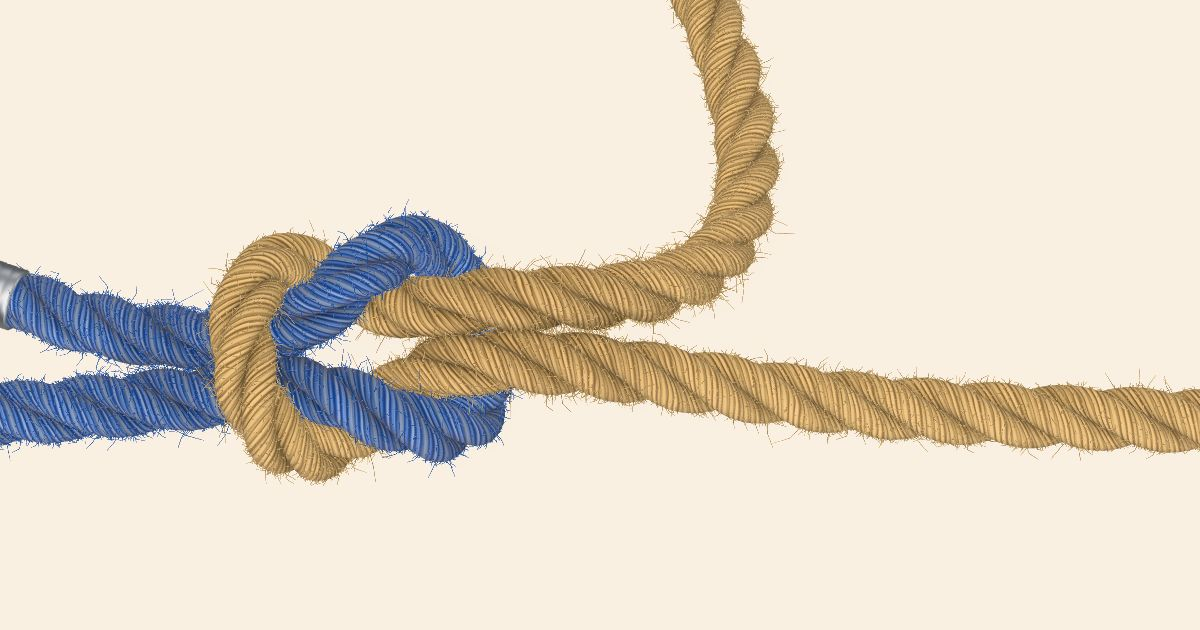
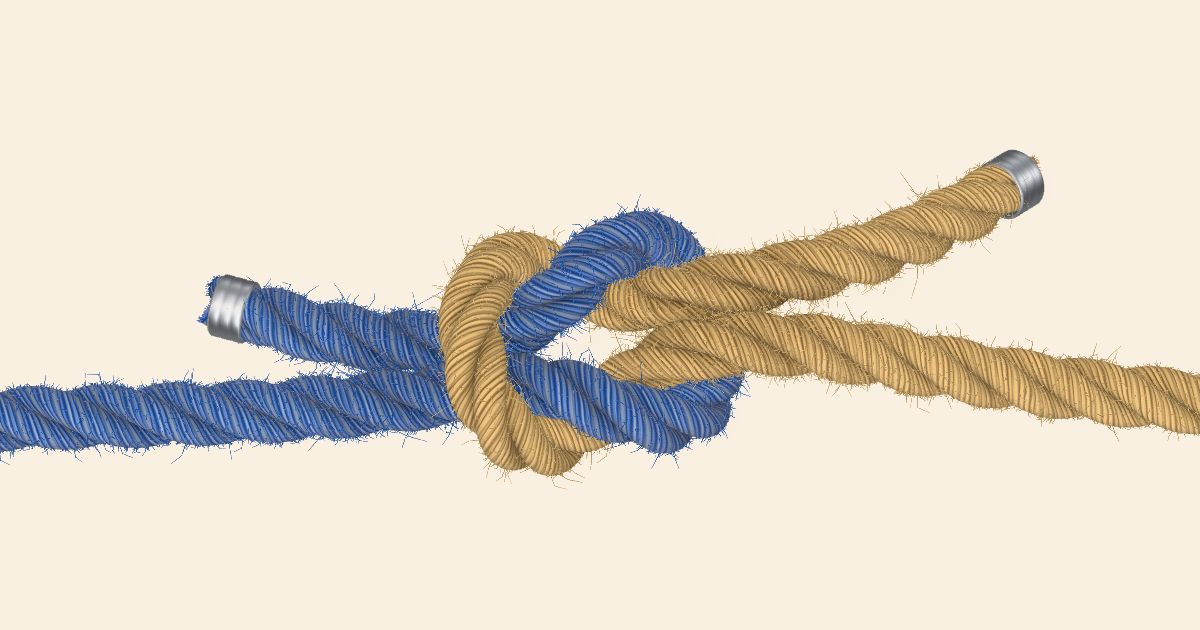
Even out the square knot's two tails
Tan's tail is shorter, and blue's end swings round its tip instead of
under it, which ties the same knot. Tan's end is left free during the
final pull and laid up the screen afterwards, so both ends finish about
the same length.

Changed region(s): [[0.0, 0.0, 1.0, 0.7841]]

diff --git a/src/engine/knots/square-knot.ts b/src/engine/knots/square-knot.ts
@@ -9,7 +9,9 @@ import type { KnotDef, Vec3 } from "./types";
 // same way. Pull all four ends.
 const R = 0.012;
 const W = 0.05; // tan U radius
-const TAN_END = 0.5; // the C's tail runs out to x = 0.5 on the far side
+// The C's tail runs out to x = 0.33 on the far side: short, so it ends as long as blue's tail. Blue's
+// end swings round its tip, which ties the same knot as passing under it.
+const TAN_END = 0.33;
 const BLUE_Z = 0.015; // blue runs inside the C a little to the near side, leaving room for its end
 const BLUE_END: Vec3 = [-0.3, R, 0.12]; // blue's end starts clear of where tan's curve rolls
 const BLUE = 1.37;
@@ -81,15 +83,15 @@ export const squareKnot: KnotDef = {
     // One hand pinches both legs of the C and lifts them so the end can pass under.
     {
       rope: 1,
-      at: tan(T_RIM - 0.32),
+      at: tan(T_RIM - 0.28),
       grab: 5.2,
-      path: [{ t: 5.7, p: [0.32, 0.08, W] }, { t: 6.9 }, { t: 7.3, p: [0.32, R, W] }, { t: 9.9 }],
+      path: [{ t: 5.7, p: [0.28, 0.08, W] }, { t: 6.9 }, { t: 7.3, p: [0.28, R, W] }, { t: 9.9 }],
     },
     {
       rope: 1,
-      at: tan(T_FAR + 0.32),
+      at: tan(T_FAR + 0.28),
       grab: 5.2,
-      path: [{ t: 5.7, p: [0.32, 0.08, -W] }, { t: 6.9 }, { t: 7.3, p: [0.32, R, -W] }, { t: 9.9 }],
+      path: [{ t: 5.7, p: [0.28, 0.08, -W] }, { t: 6.9 }, { t: 7.3, p: [0.28, R, -W] }, { t: 9.9 }],
     },
     {
       at: 1,
@@ -102,11 +104,11 @@ export const squareKnot: KnotDef = {
         { t: 4.3, p: [0.1, 0.05, W] },
         { t: 4.6, p: [0.14, R, 0.1] },
         { t: 5.2, p: [0.46, R, 0.1] },
-        // Swings round like a page under both lifted legs, curls over the far leg into the C, then
-        // goes down under the rim's far corner and out.
-        { t: 5.9, p: [0.44, R, 0.0] },
-        { t: 6.3, p: [0.39, R, -0.08] },
-        { t: 6.7, p: [0.3, R, -0.16] },
+        // Swings round like a page under the lifted near leg and round the far leg's tip, curls
+        // over the far leg into the C, then goes down under the rim's far corner and out.
+        { t: 5.9, p: [0.41, R, 0.0] },
+        { t: 6.3, p: [0.35, R, -0.08] },
+        { t: 6.7, p: [0.27, R, -0.16] },
         { t: 7.1, p: [0.19, R, -0.19] },
         { t: 7.45, p: [0.15, 0.06, -0.1] },
         { t: 7.75, p: [0.11, 0.06, -0.03] },
@@ -118,8 +120,8 @@ export const squareKnot: KnotDef = {
       ],
     },
 
-    // Pull the ends up the screen to close both C's, let go, then pull the standing parts apart:
-    // the knot settles on their line.
+    // Pull blue's end up the screen and let go, then pull the standing parts apart: the knot
+    // settles on their line. Tan's short end is left free, then laid up the screen.
     {
       at: 1,
       grab: 9.9,
@@ -130,10 +132,8 @@ export const squareKnot: KnotDef = {
     {
       rope: 1,
       at: 1,
-      grab: 9.9,
-      compliance: 0.001,
-      force: 450,
-      path: [{ t: 10.7, p: [0.3, 0.04, -0.22] }, { t: 11.4, p: [0.16, 0.04, -0.3] }, { t: 11.6 }],
+      grab: 12.5,
+      path: [{ t: 13.3, p: [0.16, 0.04, -0.2] }, { t: 13.5 }],
     },
     {
       at: 0,

diff --git a/src/engine/sim/bake.fingerprint.test.ts b/src/engine/sim/bake.fingerprint.test.ts
@@ -10,7 +10,7 @@ const FINGERPRINTS: Record<string, string> = {
   bowline: "edc1585db70c",
   "clove-hitch": "e47109ab703c",
   zeppelin: "1d60633c1b56",
-  "square-knot": "a81a49c47818",
+  "square-knot": "69140ca15c13",
 };
 
 describe("bake fingerprint", () => {
